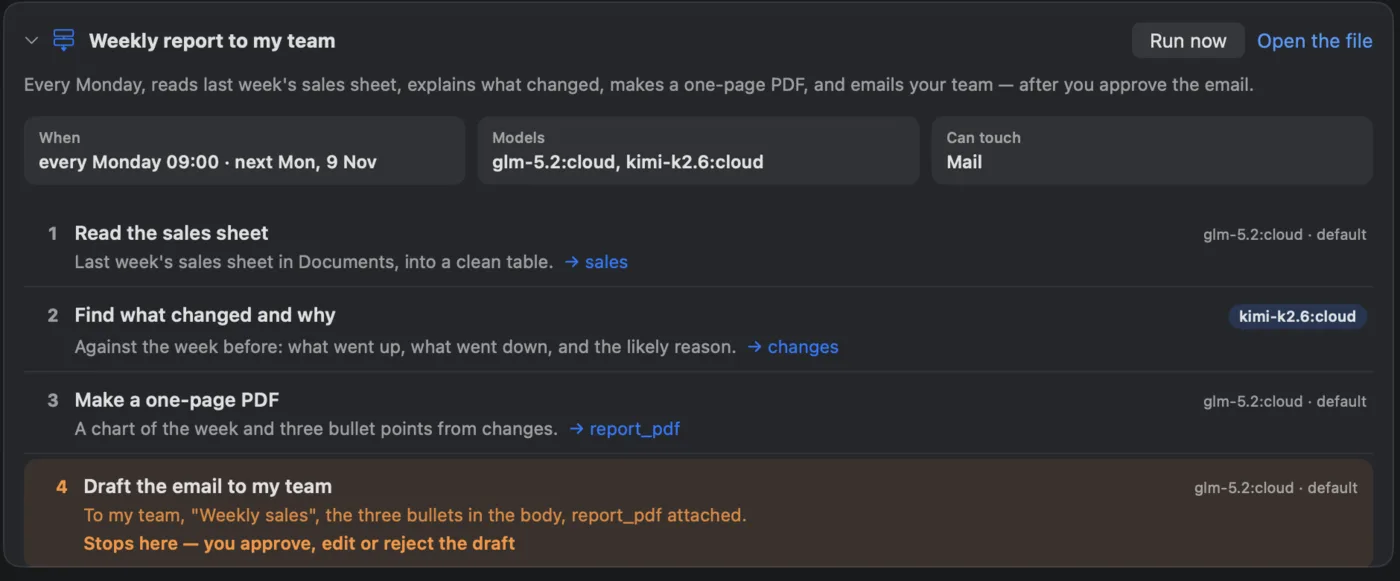
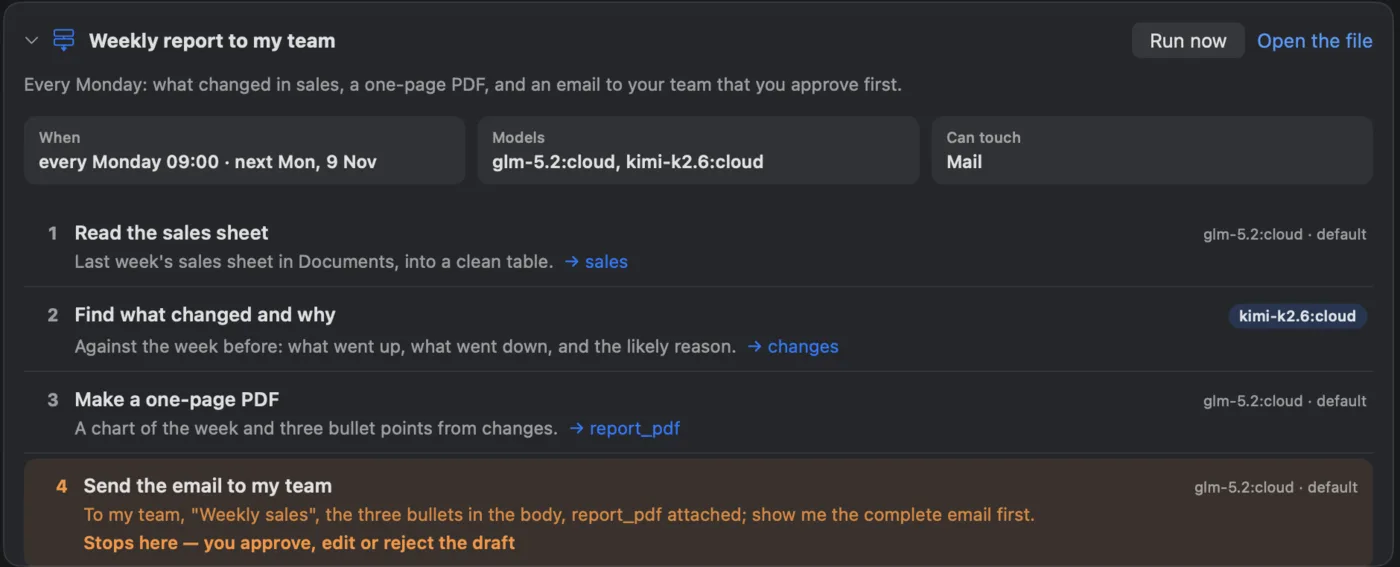
Workflows page: three-line intro, approval covers the send, new card screenshot; docs: missed runs

diff --git a/workflows.html b/workflows.html
@@ -30,6 +30,9 @@
 .wf .tags{display:flex;flex-wrap:wrap;gap:6px;margin:6px 0 0}
 .wf .tags span{font-size:12px;padding:2px 8px;border-radius:999px;background:var(--accent-soft)}
 .wf .flow{white-space:pre-wrap}
+.wf-how{list-style:none;padding:0;margin:18px 0 22px;display:grid;gap:10px}
+.wf-how li{background:var(--surface);border:1px solid var(--line);border-radius:12px;padding:12px 16px}
+.wf-how b{display:inline-block;min-width:118px}
 .wf-shot{margin:22px 0 6px}.wf-shot img{width:100%;height:auto;border-radius:12px;border:1px solid var(--line)}.wf-shot figcaption{font-size:14px;color:var(--muted,inherit);opacity:.8;margin-top:6px}
 .wf-pair{display:grid;grid-template-columns:1fr 1.6fr;gap:16px;align-items:start}
 @media (max-width:700px){.wf-pair{grid-template-columns:1fr}}
@@ -74,8 +77,14 @@
 
 <main><div class="wrap">
   <h1>Workflow examples</h1>
-  <p class="lead">A workflow is a routine you describe in your own words, in any language: what to do, step by step, when it runs, which model does each step, and where it must stop for your OK. Naseem asks about anything unclear, shows you the steps, and runs it on your Mac. Pick your kind of work below, copy an example into <strong>Workflows ▸ + ▸ New Workflow…</strong>, and change it to fit. If Naseem already knows your work, the New Workflow screen also suggests examples written for you.</p>
-  <figure class="wf-shot"><img src="assets/shots/workflow-card.webp" alt="A workflow card in Naseem: Weekly report to my team — when it runs, the models, what it can touch, and five steps, the email step marked to stop for your approval" width="1400" height="581" loading="lazy"><figcaption>What you approve: the steps, the model for each, and where it stops for your OK.</figcaption></figure>
+  <p class="lead"><strong>Naseem can remember a job and do it again.</strong> Describe it once, in your own words and any language; Naseem turns it into steps and runs it on your Mac when the time comes.</p>
+  <ol class="wf-how">
+    <li><b>You say</b> “Every Friday at 16:00, summarise this week’s progress in my project and email it to my team.”</li>
+    <li><b>Naseem makes</b> the steps, picks a model for each, and marks where it stops for your OK — you review it, then Save.</li>
+    <li><b>Friday comes</b> and it runs. Before the email goes out, you see the complete message and approve it.</li>
+  </ol>
+  <p>Pick your kind of work below, copy an example into <strong>Workflows ▸ + ▸ New Workflow…</strong>, and change it to fit. If Naseem already knows your work, the New Workflow screen also suggests examples written for you.</p>
+  <figure class="wf-shot"><img src="assets/shots/workflow-card.webp" alt="A workflow card in Naseem: Weekly report to my team — when it runs, the models, what it can touch, and four steps, the send-email step marked to stop for your approval" width="1400" height="567" loading="lazy"><figcaption>What you approve: the steps, the model for each, and where it stops for your OK.</figcaption></figure>
   <div class="wf-pair">
     <figure class="wf-shot"><img src="assets/shots/workflow-sidebar.webp" alt="The Workflows section at the top of Naseem's sidebar, with a + button, listing two workflows and when each runs" width="625" height="340" loading="lazy"><figcaption>Your workflows, at the top of the sidebar.</figcaption></figure>
     <figure class="wf-shot"><img src="assets/shots/workflow-examples.webp" alt="The New Workflow screen's examples: Morning brief, File my invoices, Weekly report to my team, Meeting notes to tasks, Grade assignments, Friday research digest, Build an app from a plan — each with tags" width="1100" height="596" loading="lazy"><figcaption>Start from an example — or one written for your work.</figcaption></figure>
@@ -171,13 +180,12 @@
   </div>
   <div class="principle wf" data-cat="business">
     <h2>Weekly report to my team</h2>
-    <div class="tags"><span>Every Monday</span><span>5 steps</span><span>Mail</span><span>Ask first</span></div>
+    <div class="tags"><span>Every Monday</span><span>4 steps</span><span>Mail</span><span>Ask first</span></div>
     <div class="flow">Every Monday at 9:00:
 1. Read last week&#x27;s sales sheet in Documents.
 2. With my strongest model, find what changed against the week before, and why.
 3. Make a one-page PDF with a chart and three bullet points.
-4. Draft an email to my team in Mail with the PDF attached — ask me first.
-5. Send it.</div>
+4. Send the email to my team in Mail with the PDF attached — show me the complete email and ask me first.</div>
     <button type="button" class="copy">Copy</button>
   </div>
   <div class="principle wf" data-cat="business">

diff --git a/docs/workflows.html b/docs/workflows.html
@@ -95,6 +95,7 @@
   <li><strong>Run on a schedule:</strong> "every weekday at 8:00", "every Monday at 9:00".</li>
   <li><strong>Run when a file arrives</strong> in a folder: "when a PDF appears in Downloads".</li>
   <li><strong>Run when you ask:</strong> with <strong>Run now</strong>.</li>
+  <li><strong>If your Mac is asleep</strong> or Naseem is closed when a workflow is due, it runs once when Naseem is open again, not once for every time it missed.</li>
   <li><strong>Use a different model per step:</strong> a fast, cheap one for sorting and reading, your strongest one for judging and writing. Say "with a fast model" or "with my strongest model" and Naseem picks from the models you've set up, and names them before you save.</li>
   <li><strong>Pass results along:</strong> each step can hand what it found to the next.</li>
   <li><strong>Stop for your OK:</strong> "ask me first" on a step shows you the exact draft (the email, the move, the post) with <strong>Approve</strong>, <strong>Edit</strong> or <strong>Reject</strong>. Nothing is sent, moved or posted until you choose.</li>

diff --git a/index.html b/index.html
@@ -556,7 +556,7 @@
   </div>
   <div class="shots">
     <figure>
-      <div class="frame"><img class="zoom" src="assets/shots/workflow-card.webp" data-full="assets/shots/workflow-card.webp" alt="A workflow card in Naseem: Weekly report to my team, every Monday at 09:00, two models, Mail, five steps with the email draft step marked to stop for approval" width="1400" height="581" loading="lazy"></div>
+      <div class="frame"><img class="zoom" src="assets/shots/workflow-card.webp" data-full="assets/shots/workflow-card.webp" alt="A workflow card in Naseem: Weekly report to my team, every Monday at 09:00, two models, Mail, four steps, the send-email step marked to stop for your approval" width="1400" height="567" loading="lazy"></div>
       <figcaption><b>Routines in your own words</b><span>Say what should happen every Monday; Naseem turns it into steps, picks a model for each, and stops for your OK before the email goes out. <a href="workflows.html">See examples</a>.</span></figcaption>
     </figure>
     <figure>
